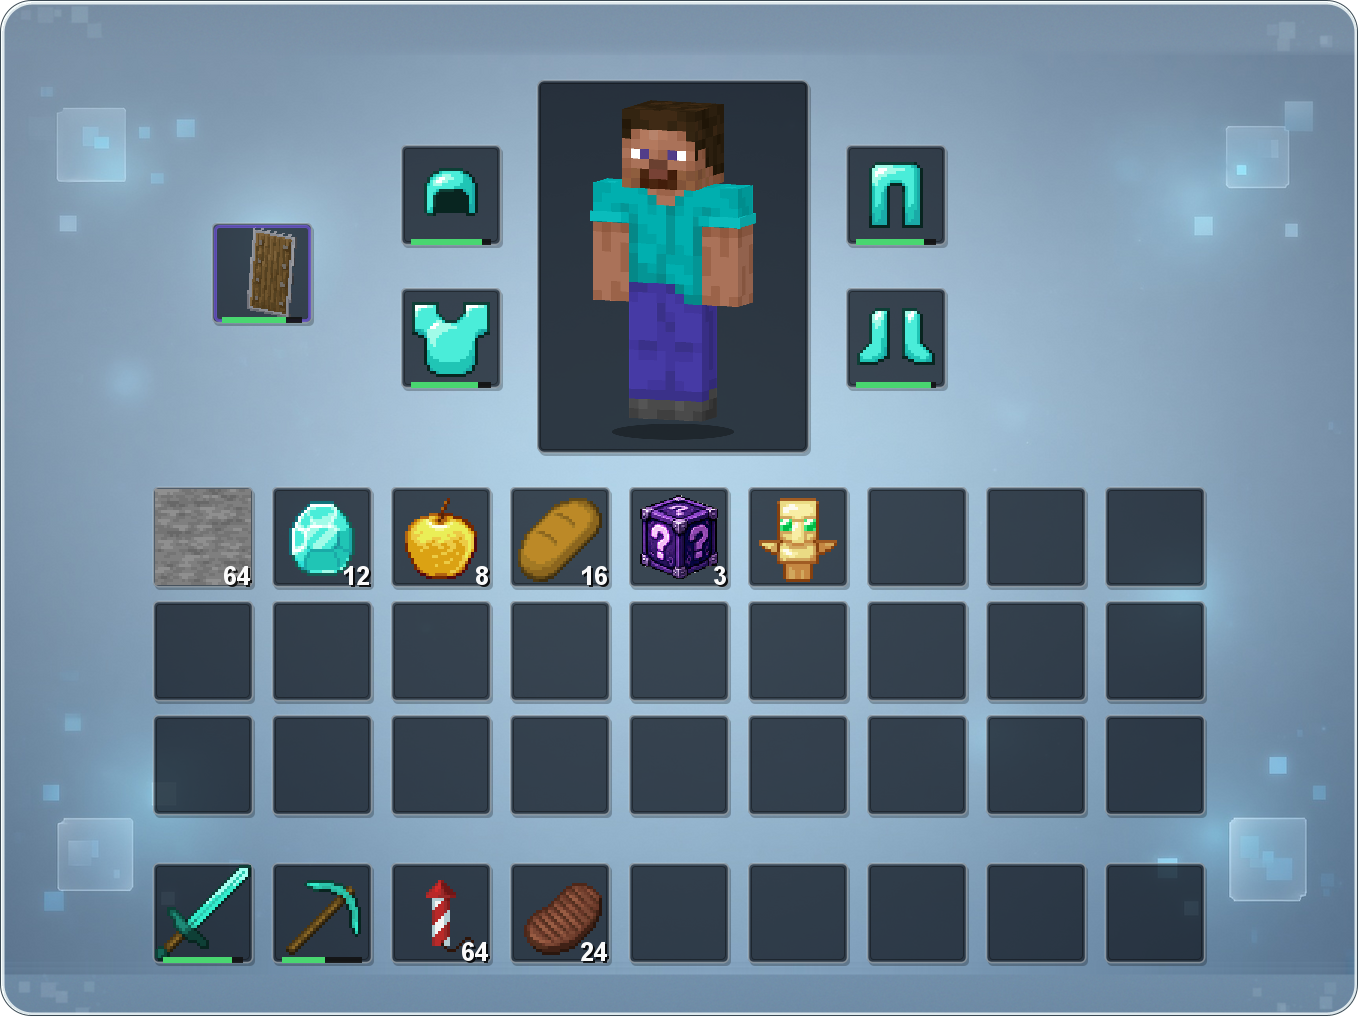
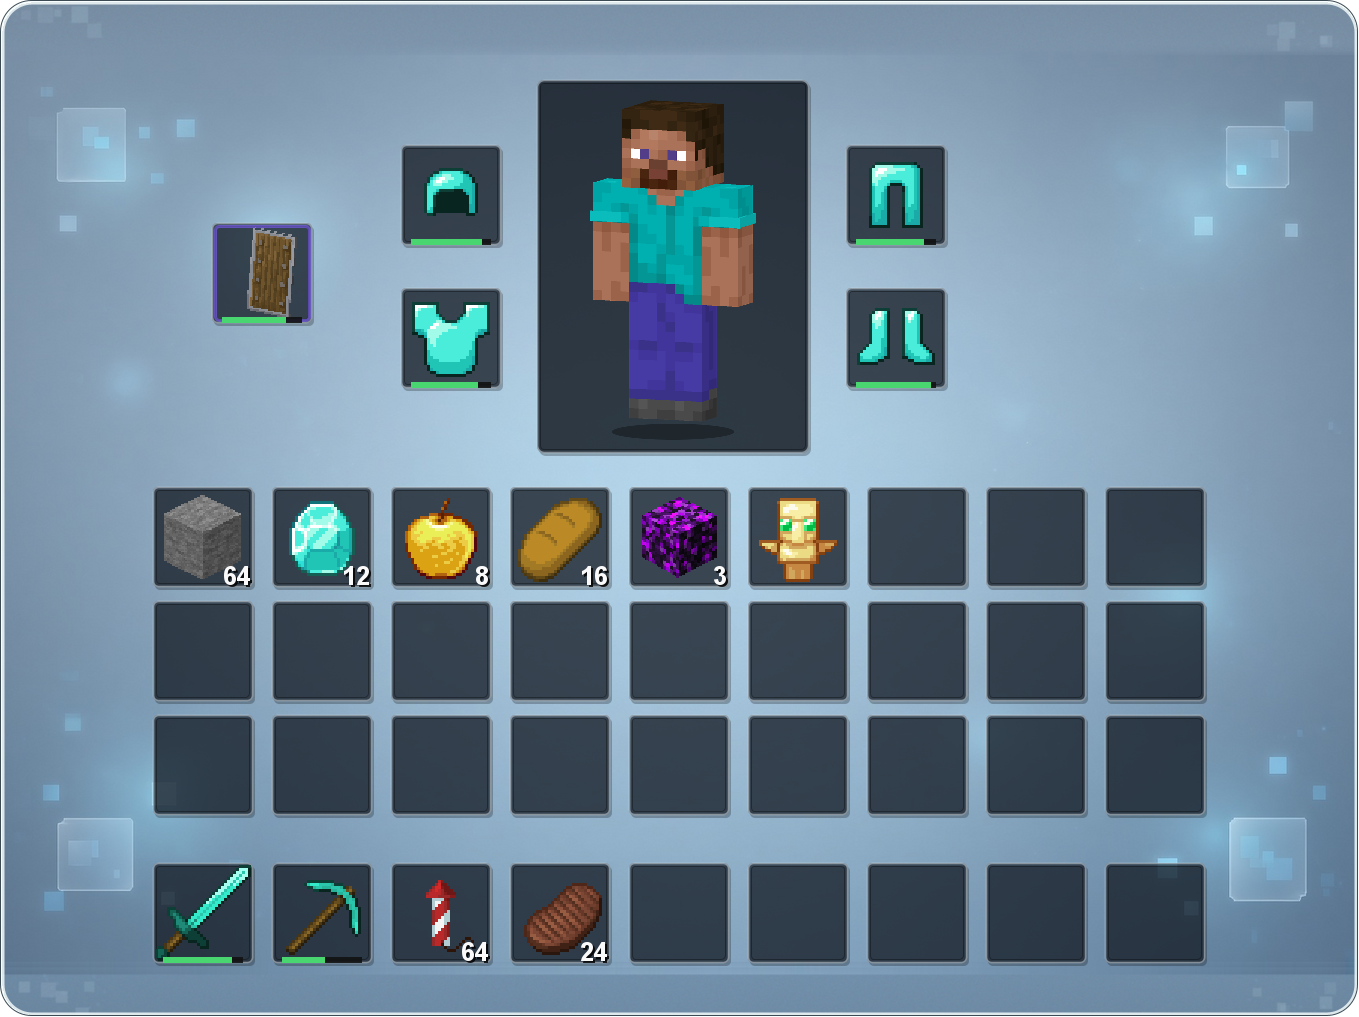
fix: refresh inventory preview item assets

Changed region(s): [[0.0927, 0.4572, 0.1854, 0.5792], [0.4636, 0.4877, 0.5254, 0.5792]]

diff --git a/src/test/java/cn/huohuas001/huhobot/inventory/renderer/Java2DInventoryRendererTest.java b/src/test/java/cn/huohuas001/huhobot/inventory/renderer/Java2DInventoryRendererTest.java
@@ -35,7 +35,7 @@ class Java2DInventoryRendererTest {
         Paths.get("src", "main", "resources", "themes", "faithful32x");
 
     @Test
-    void rendersValidHeadlessPngAndWritesPreview() throws Exception {
+    void rendersLegacyThemeAsValidHeadlessPng() throws Exception {
         Theme theme = ThemeLoader.load(DEFAULT_THEME);
         InventorySnapshot snapshot = new MockInventoryDataSource("renderer-test").createSnapshot("MockPlayer");
         RenderResult result = new Java2DInventoryRenderer(theme).render(snapshot);
@@ -55,14 +55,11 @@ class Java2DInventoryRendererTest {
         assertEquals(704, decoded.getWidth());
         assertEquals(600, decoded.getHeight());
 
-        Path preview = Paths.get("build", "rendered-test-output", "mock-inventory-default.png");
-        Files.createDirectories(preview.getParent());
-        Files.write(preview, bytes);
     }
 
     @Test
     void rendersFaithfulThemeWithNamespacedTexturesAndWritesPrimaryPreview() throws Exception {
-        Theme theme = ThemeLoader.load(FAITHFUL_THEME);
+        Theme theme = RendererTestAssets.loadProductionFaithfulTheme();
         assertEquals("faithful32x", theme.getId());
         assertTrue(theme.getAssetPackVersion().contains("Faithful"));
         assertFalse(theme.isDrawTitle());
@@ -85,7 +82,15 @@ class Java2DInventoryRendererTest {
         );
 
         InventorySnapshot snapshot = new MockInventoryDataSource("renderer-test").createSnapshot("MockPlayer");
-        RenderResult result = new Java2DInventoryRenderer(theme).render(snapshot);
+        BufferedImage background = LayeredBackground.forInventory(
+            theme,
+            FAITHFUL_THEME.resolve("default-wallpaper.png"),
+            "stretch"
+        );
+        java.awt.Rectangle previewArea = theme.getLayout().getPlayerPreview();
+        BufferedImage player = new PlayerModelRenderer(previewArea.width, previewArea.height)
+            .render(new DefaultPlayerSkinProvider().getFallback());
+        RenderResult result = new Java2DInventoryRenderer(theme, background).render(snapshot, player);
         assertEquals(1359, result.getWidth());
         assertEquals(1017, result.getHeight());
         assertTrue(result.getByteSize() > 10_000);
@@ -187,7 +192,7 @@ class Java2DInventoryRendererTest {
 
     @Test
     void offlineSnapshotRendersTimestampBadgeWithoutChangingSnapshotModel() throws Exception {
-        Theme theme = ThemeLoader.load(FAITHFUL_THEME);
+        Theme theme = RendererTestAssets.loadProductionFaithfulTheme();
         InventorySnapshot snapshot = new MockInventoryDataSource("renderer-test").createSnapshot("Steve");
         java.awt.Rectangle area = theme.getLayout().getPlayerPreview();
         java.awt.Rectangle freshness = theme.getLayout().getFreshness();

diff --git a/src/test/java/cn/huohuas001/huhobot/inventory/renderer/LayeredBackgroundTest.java b/src/test/java/cn/huohuas001/huhobot/inventory/renderer/LayeredBackgroundTest.java
@@ -3,6 +3,7 @@ package cn.huohuas001.huhobot.inventory.renderer;
 import cn.huohuas001.huhobot.inventory.datasource.MockInventoryDataSource;
 import cn.huohuas001.huhobot.inventory.model.InventorySnapshot;
 import cn.huohuas001.huhobot.inventory.model.InventorySlot;
+import cn.huohuas001.huhobot.inventory.model.ItemSnapshot;
 import cn.huohuas001.huhobot.inventory.model.SlotType;
 import cn.huohuas001.huhobot.inventory.skin.DefaultPlayerSkinProvider;
 import cn.huohuas001.huhobot.inventory.skin.PlayerModelRenderer;
@@ -28,9 +29,14 @@ class LayeredBackgroundTest {
 
     @Test
     void rendersBundledMistBlueDefaultWallpaper() throws Exception {
-        Path themeDirectory = THEMES.resolve("faithful32x");
-        Theme theme = ThemeLoader.load(themeDirectory);
+        Path themeDirectory = RendererTestAssets.FAITHFUL_THEME;
+        Theme theme = RendererTestAssets.loadProductionFaithfulTheme();
         Path wallpaper = themeDirectory.resolve("default-wallpaper.png");
+        TextureResolver.ResolvedTexture stone = theme.getTextures().resolve(
+            ItemSnapshot.basic("minecraft:stone", 1)
+        );
+        assertEquals(TextureResolver.Source.GENERATED_CACHE, stone.getSource());
+        assertEquals(64, stone.getImage().getWidth());
         BufferedImage inventoryBackground = LayeredBackground.forInventory(
             theme,
             wallpaper,
@@ -111,7 +117,7 @@ class LayeredBackgroundTest {
 
         for (String id : new String[] {"faithful32x"}) {
             Path themeDirectory = THEMES.resolve(id);
-            Theme theme = ThemeLoader.load(themeDirectory);
+            Theme theme = RendererTestAssets.loadProductionFaithfulTheme();
             BufferedImage inventoryBackground = LayeredBackground.forInventory(
                 theme, wallpaperFile, "cover"
             );

diff --git a/src/test/java/cn/huohuas001/huhobot/inventory/renderer/EnderChestRendererTest.java b/src/test/java/cn/huohuas001/huhobot/inventory/renderer/EnderChestRendererTest.java
@@ -17,15 +17,18 @@ import static org.junit.jupiter.api.Assertions.assertNotNull;
 import static org.junit.jupiter.api.Assertions.assertTrue;
 
 class EnderChestRendererTest {
-    private static final Path THEME = Paths.get("src", "main", "resources", "themes", "faithful32x");
-
     @Test
     void rendersCompactFaithfulThreeRowPngAndOfflineBadge() throws Exception {
-        Theme theme = ThemeLoader.load(THEME);
+        Theme theme = RendererTestAssets.loadProductionFaithfulTheme();
         InventorySnapshot snapshot = new MockInventoryDataSource("ender-render-test")
             .createSnapshot("Steve");
         EnderChestRenderer renderer = new EnderChestRenderer(
-            theme, LayeredBackground.placeholderEnderChest(theme)
+            theme,
+            LayeredBackground.forEnderChest(
+                theme,
+                RendererTestAssets.FAITHFUL_THEME.resolve("default-wallpaper.png"),
+                "cover"
+            )
         );
 
         RenderResult realtime = renderer.render(

diff --git a/src/test/java/cn/huohuas001/huhobot/inventory/renderer/RendererTestAssets.java b/src/test/java/cn/huohuas001/huhobot/inventory/renderer/RendererTestAssets.java
@@ -1,0 +1,27 @@
+package cn.huohuas001.huhobot.inventory.renderer;
+
+import cn.huohuas001.huhobot.inventory.asset.VanillaImportedAssetProvider;
+
+import java.nio.file.Path;
+import java.nio.file.Paths;
+
+/** Loads the same generated item icons that are bundled for production previews. */
+final class RendererTestAssets {
+    static final Path FAITHFUL_THEME = Paths.get(
+        "src", "main", "resources", "themes", "faithful32x"
+    );
+
+    private RendererTestAssets() {}
+
+    static Theme loadProductionFaithfulTheme() {
+        VanillaImportedAssetProvider imported = VanillaImportedAssetProvider.open(
+            Paths.get("data", "imported-assets", "vanilla")
+        );
+        if (!imported.isAvailable()) {
+            throw new IllegalStateException(
+                "Bundled generated item icons are required for production-style render previews"
+            );
+        }
+        return ThemeLoader.load(FAITHFUL_THEME, imported);
+    }
+}

diff --git a/src/main/resources/themes/faithful32x/SOURCES.md b/src/main/resources/themes/faithful32x/SOURCES.md
@@ -86,7 +86,11 @@ site, use only needed assets, and avoid misleading claims of official endorsemen
   Production tint values come from Paper `PotionMeta.computeEffectiveColor()`, which mirrors the
   Minecraft 26.1.2 rule: explicit `custom_color` first, otherwise visible effect colors weighted
   by `amplifier + 1`, with client fallback `#385DC6`. No potion-name-to-RGB table is maintained.
-- First-party fallback: HuHoBot original `themes/default/items/unknown.png`.
+- First-party fallback: an original transparent 64×64 complete 3D purple-black
+  mosaic cube generated specifically for this project, then reduced with nearest-
+  neighbor scaling. No file was extracted from Minecraft or another resource
+  pack. It deliberately avoids question marks and collectible-block styling so
+  unsupported items cannot be mistaken for a lucky-block item.
 - Ender Chest query GUI: `ender-chest-background.png` is reproducibly generated by
   `tools/EnderChestBackgroundGenerator.java` from Faithful 26.2
   `assets/minecraft/textures/gui/container/generic_54.png`. It composes the three-row upper

diff --git a/changelog.md b/changelog.md
@@ -9,6 +9,7 @@
 - 支持保持比例居中裁切的 `cover` 与铺满画布的 `stretch`，并限制文件名、文件大小和解码像素数。
 - QQ 中文指令由 `/背包`、`/末影箱` 改为 `/我的背包`、`/我的末影箱`；英文指令保持不变，旧配置中的默认中文别名会自动迁移。
 - 配置版本升级到 12，旧配置自动补齐关闭状态的底图项；升级时不会擅自启用用户底图，未配置时使用内置雾蓝壁纸。
+- 未知物品不再显示类似幸运方块的紫色问号箱，改为项目原创的完整 3D 紫黑马赛克方块；该图标未从游戏本体或资源包解包。本地渲染预览也强制使用与正式包一致的 64×64 生成物品图标。
 
 ## 1.23.0 — 2026-09-22
 
